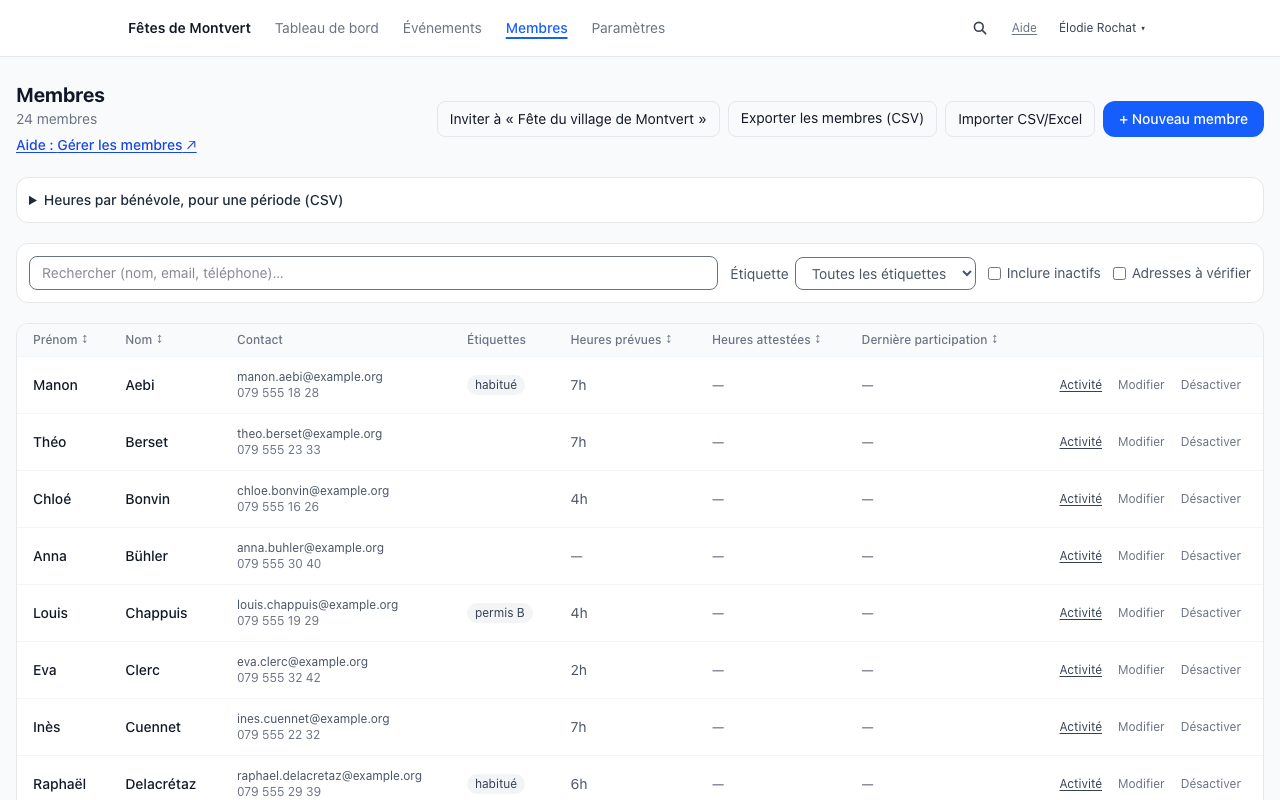
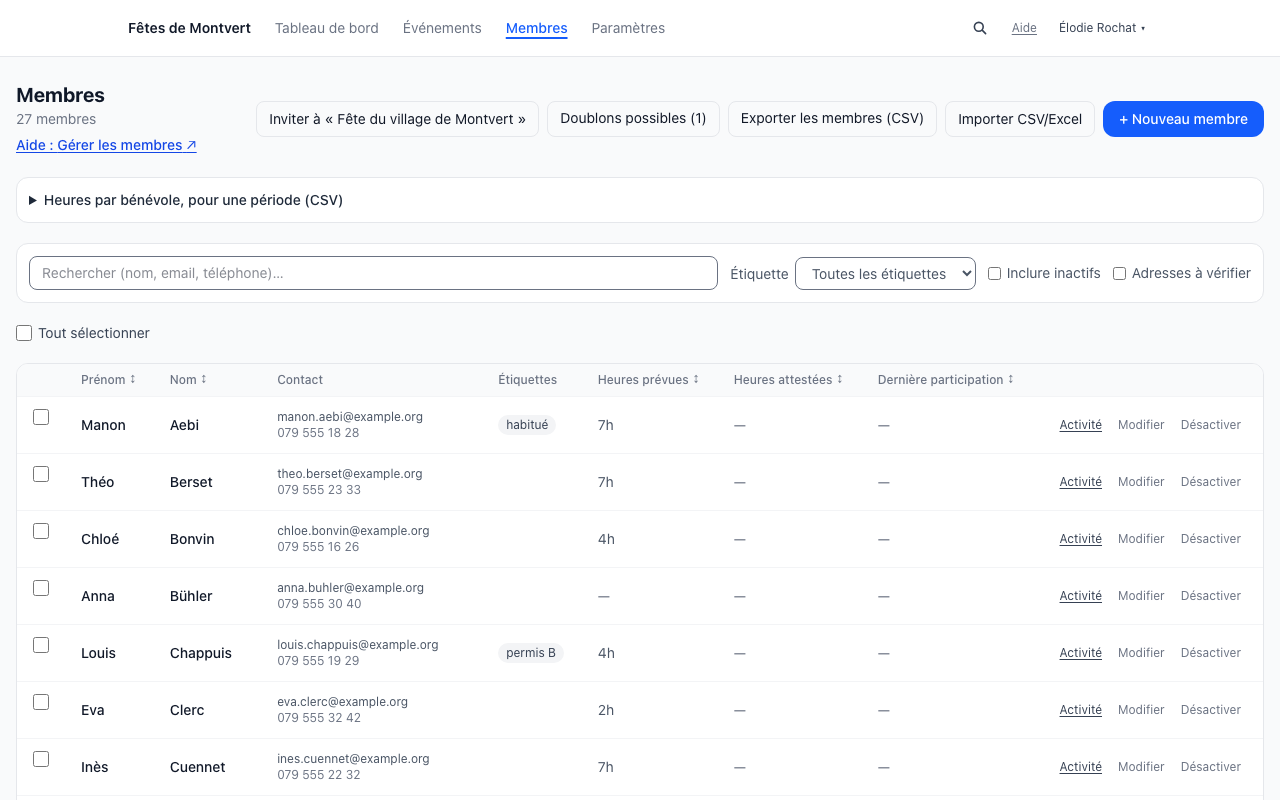
docs(members): capture the bulk deletion and cap the names read out
Capture the members list and the bulk deletion dialog, declare the new
capture with the others and show it in the guide. The result message
names at most ten kept members and counts the rest.

Closes #1305

diff --git a/src/lib/__tests__/doc-screenshots.test.ts b/src/lib/__tests__/doc-screenshots.test.ts
@@ -3,7 +3,7 @@
 
 import { describe, expect, it } from "vitest"
 import { existsSync, readFileSync, readdirSync } from "node:fs"
-import { DOC_SCREENSHOTS, hasOptOut, importSpecifiers, PENDING_DOC_SCREENSHOTS, resolveLocalImport, screenshotSources, staleScreenshots } from "../doc-screenshots"
+import { DOC_SCREENSHOTS, hasOptOut, importSpecifiers, resolveLocalImport, screenshotSources, staleScreenshots } from "../doc-screenshots"
 
 describe("importSpecifiers", () => {
   it("finds static, multi-line, type, re-export and dynamic imports", () => {
@@ -82,21 +82,11 @@ describe("DOC_SCREENSHOTS", () => {
     const pngs = readdirSync("public/doc-img").filter((f) => f.endsWith(".png")).map((f) => f.slice(0, -4)).sort()
     const shots = [...script.matchAll(/await shot\("([^"]+)"/g)].map((m) => m[1]).sort()
     expect(Object.keys(DOC_SCREENSHOTS).sort()).toEqual(pngs)
-    // A declared pending capture has its shot but no PNG yet; once the PNG exists, its entry moves
-    // into DOC_SCREENSHOTS (the first assertion then requires it).
-    expect([...Object.keys(DOC_SCREENSHOTS), ...Object.keys(PENDING_DOC_SCREENSHOTS)].sort()).toEqual(shots)
+    expect(Object.keys(DOC_SCREENSHOTS).sort()).toEqual(shots)
   })
 
   it("points to route files that exist", () => {
-    for (const entries of [...Object.values(DOC_SCREENSHOTS), ...Object.values(PENDING_DOC_SCREENSHOTS)]) {
-      for (const entry of entries) expect(existsSync(entry), entry).toBe(true)
-    }
-  })
-
-  it("declares no pending capture once its PNG exists", () => {
-    for (const name of Object.keys(PENDING_DOC_SCREENSHOTS)) {
-      expect(existsSync(`public/doc-img/${name}.png`), `${name}.png exists: move it to DOC_SCREENSHOTS`).toBe(false)
-    }
+    for (const entries of Object.values(DOC_SCREENSHOTS)) for (const entry of entries) expect(existsSync(entry), entry).toBe(true)
   })
 
   it("reaches the components a capture shows", () => {

diff --git a/src/lib/doc-screenshots.ts b/src/lib/doc-screenshots.ts
@@ -71,6 +71,7 @@ export const DOC_SCREENSHOTS: Record<string, string[]> = {
   "admin-team": ["src/app/admin/settings/admins/page.tsx"],
   "admin-login": ["src/app/admin/login/page.tsx"],
   "admin-members": ["src/app/admin/members/page.tsx"],
+  "admin-members-bulk-delete": ["src/app/admin/members/page.tsx"],
   "admin-duplicates": ["src/app/admin/members/duplicates/page.tsx"],
   "admin-merge-preview": ["src/app/admin/members/[id]/merge/page.tsx"],
   "admin-member-activity": ["src/app/admin/members/[id]/page.tsx"],
@@ -78,15 +79,6 @@ export const DOC_SCREENSHOTS: Record<string, string[]> = {
   "admin-member-erase": ["src/app/admin/members/[id]/page.tsx"],
 }
 
-/**
- * Captures that are scripted and declared but whose PNG cannot be produced in this change yet
- * (no browser on the branch that adds them, #1305). The shot exists in scripts/screenshots.mjs;
- * once `ONLY=<name> npm run screenshots` has written the PNG, move the entry into DOC_SCREENSHOTS.
- * Kept apart so the coverage guard still checks every existing PNG against its screen.
- */
-export const PENDING_DOC_SCREENSHOTS: Record<string, string[]> = {
-  "admin-members-bulk-delete": ["src/app/admin/members/page.tsx"],
-}
 
 export const OPT_OUT = "doc-img: unchanged"
 

diff --git a/src/lib/__tests__/member-bulk-deletion.test.ts b/src/lib/__tests__/member-bulk-deletion.test.ts
@@ -87,6 +87,15 @@ describe("partitionMembersForBulkDeletion (#1305)", () => {
 describe("bulkDeletionResultText (#1305)", () => {
   const result = (deleted: string[], skipped: BulkDeletionResult["skipped"] = []): BulkDeletionResult => ({ deleted, skipped })
 
+  it("reads out at most ten names and counts the rest, so a big import stays readable", () => {
+    const skipped = Array.from({ length: 13 }, (_, i) => ({ id: `s${i}`, reason: "registrations" as const, name: `Membre ${i + 1}` }))
+    const text = bulkDeletionResultText(result(["1"], skipped))
+    expect(text).toContain("Membre 10 et 3 autres.")
+    expect(text).not.toContain("Membre 11")
+    expect(bulkDeletionResultText(result(["1"], skipped.slice(0, 11)))).toContain("Membre 10 et 1 autre.")
+    expect(bulkDeletionResultText(result(["1"], skipped.slice(0, 10)))).toContain("Membre 10.")
+  })
+
   it("says all deleted, with the plural", () => {
     expect(bulkDeletionResultText(result(["1", "2", "3"]))).toBe("3 membres supprimés.")
   })

diff --git a/src/lib/member-bulk-deletion.ts b/src/lib/member-bulk-deletion.ts
@@ -100,9 +100,15 @@ export function partitionMembersForBulkDeletion<M extends BulkDeletionMember>(
 }
 
 const n = (count: number, one: string, many: string) => `${count} ${count > 1 ? many : one}`
+/** At most this many names are read out; the rest are counted (« et 190 autres »). */
+export const BULK_RESULT_NAMES_MAX = 10
+
 const names = (skipped: BulkDeletionSkipped[]) => {
   const found = skipped.map((entry) => entry.name).filter((name): name is string => !!name)
-  return found.length > 0 ? ` : ${found.join(", ")}` : ""
+  if (found.length === 0) return ""
+  const shown = found.slice(0, BULK_RESULT_NAMES_MAX).join(", ")
+  const rest = found.length - BULK_RESULT_NAMES_MAX
+  return rest > 0 ? ` : ${shown} et ${rest > 1 ? `${rest} autres` : "1 autre"}` : ` : ${shown}`
 }
 
 /**

diff --git a/content/guide/effacer-ou-supprimer-un-membre.md b/content/guide/effacer-ou-supprimer-un-membre.md
@@ -20,9 +20,11 @@ Le bouton **Supprimer** n'apparaît, sur la ligne de la fiche dans la liste des 
 
 ## Supprimer plusieurs fiches en une fois
 
-Pour retirer d'un coup des membres importés par erreur, sélectionnez-les dans la liste : chaque ligne propose une case dont le libellé est **Sélectionner** suivi du prénom et du nom. La case **Tout sélectionner** prend tous les membres du filtre en cours (recherche, étiquette, statut), y compris ceux qui ne tiennent pas à l'écran. Le compteur **N membres sélectionnés** suit la sélection ; elle se vide dès que le filtre change. Le bouton **Supprimer la sélection** n'apparaît qu'une fois au moins un membre sélectionné.
+Pour retirer d'un coup des membres importés par erreur, cochez-les dans la liste des membres. La case **Tout sélectionner** prend tous les membres du filtre en cours (recherche, étiquette, statut), y compris ceux qui ne tiennent pas à l'écran. Le compteur **N membres sélectionnés** suit la sélection ; elle se vide dès que le filtre change. Le bouton **Supprimer la sélection** n'apparaît qu'une fois au moins un membre sélectionné.
 
 La confirmation indique combien de membres seront supprimés, rappelle que l'action est **irréversible** et que les membres qui ont des inscriptions ne seront pas supprimés. À la différence de la suppression d'une fiche seule, un membre **actif sans inscription** est supprimé directement : la confirmation explicite remplace l'étape de désactivation. Les fiches qui ont des inscriptions restent, parce que leurs inscriptions doivent rester dans l'historique des événements ; les fiches fusionnées restent aussi, puisque la fusion les supprime automatiquement après son délai. Aucun email n'est envoyé, et chaque suppression est journalisée dans le journal d'activité de l'organisation.
+
+![Confirmation « Supprimer 2 membres ? » : les fiches sont supprimées définitivement, les membres qui ont des inscriptions restent, aucun email n'est envoyé, puis les boutons Annuler et Supprimer](/doc-img/admin-members-bulk-delete.png)
 
 Après l'action, la liste se rafraîchit et le résultat est annoncé : par exemple « 198 membres supprimés. 3 laissés car ils ont des inscriptions : Anne Favre, Marc Rochat, Léa Dubois. Vous pouvez les effacer depuis leur fiche. » Le focus va sur ce message, ou sur le titre de la page s'il ne reste plus aucun membre. Une sélection de plus de 500 membres part en plusieurs fois, sans que vous ayez à faire quoi que ce soit.
 
